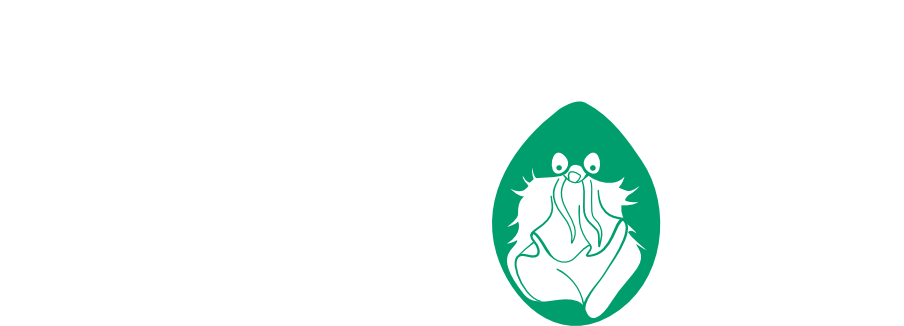
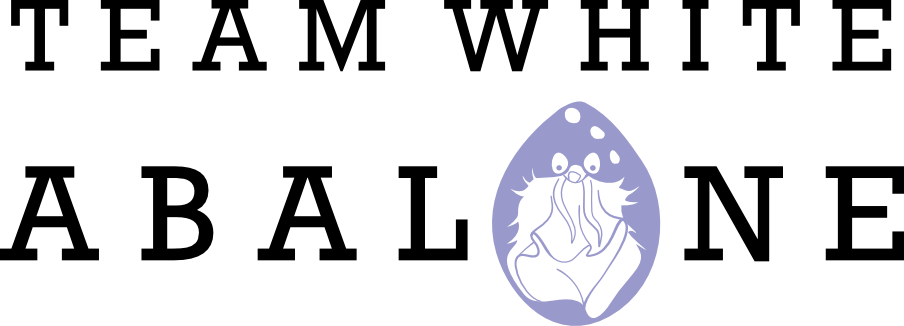
Updating colors and hero image.

diff --git a/app/assets/stylesheets/home.css b/app/assets/stylesheets/home.css
@@ -1,5 +1,5 @@
 .has-bg-img {
-  background-image: url("/images/abalone-hero.png"), linear-gradient(45deg, rgba(0, 158, 108, 0.8) 0%, rgba(0, 209, 178, 0.8) 100%);
+  background-image: url("/images/abalone-hero.png"), linear-gradient(45deg, rgba(109, 67, 202, 0.8) 0%, rgba(227, 230, 251, 0.8) 100%);
   background-repeat: no-repeat;
   background-position: center center;
 }
